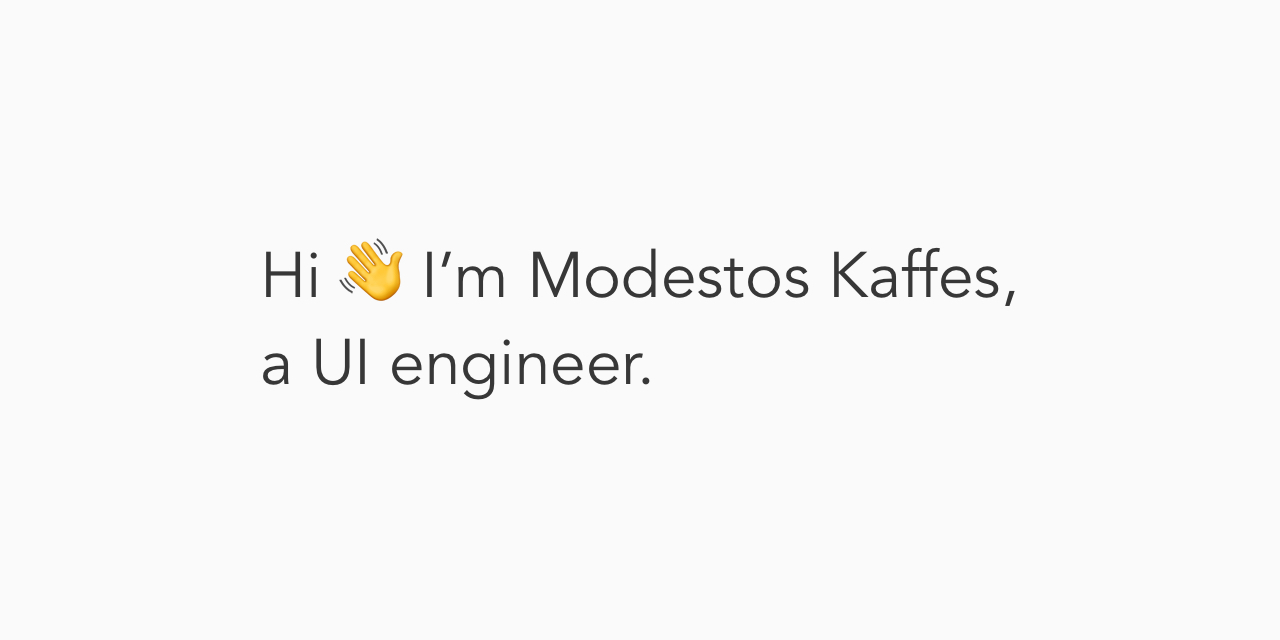
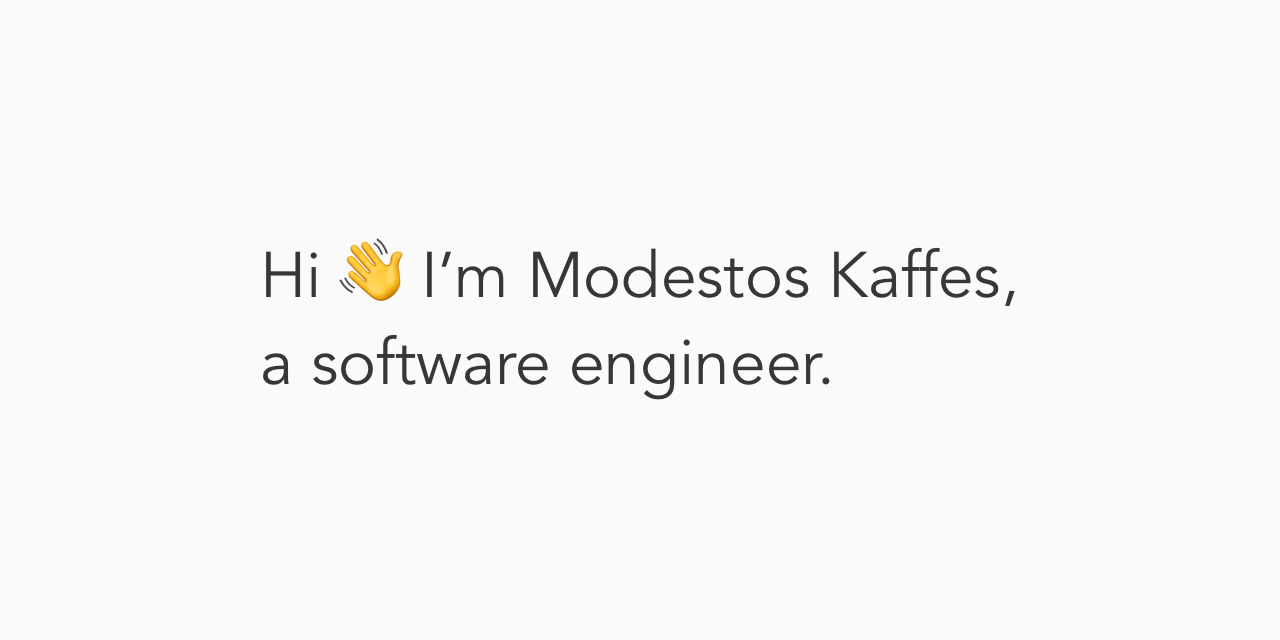
Update job title

Changed region(s): [[0.25, 0.5312, 0.6562, 0.625]]

diff --git a/index.html b/index.html
@@ -2,14 +2,14 @@
 <html lang="en-US">
   <head>
     <meta charset="utf-8" />
-    <title>Modestos Kaffes – UI Engineer</title>
-    <meta name="description" content="Hi, I’m Modestos Kaffes, a UI engineer who cares about technology, startups, music, design and photography, in no particular order." />
+    <title>Modestos Kaffes – Software Engineer</title>
+    <meta name="description" content="Hi, I’m Modestos Kaffes, a software engineer who cares about technology, startups, music, design and photography, in no particular order." />
     <meta name="viewport" content="width=device-width, initial-scale=1" />
     <meta name="theme-color" content="#008bb3" />
 
     <meta property="og:type" content="website">
-    <meta property="og:title" content="Modestos Kaffes – UI Engineer">
-    <meta property="og:description" content="Hi, I’m Modestos Kaffes, a UI engineer who cares about technology, startups, music, design and photography, in no particular order.">
+    <meta property="og:title" content="Modestos Kaffes – Software Engineer">
+    <meta property="og:description" content="Hi, I’m Modestos Kaffes, a software engineer who cares about technology, startups, music, design and photography, in no particular order.">
     <meta property="og:url" content="https://modkaffes.com/">
     <meta property="og:image" content="https://modkaffes.com/image.jpg">
     
@@ -81,8 +81,8 @@
     <div class="container">
       <main>
         <h4 class="headline">Hi 👋 I’m Modestos Kaffes,</h4>
-        <p class="tagline">a UI engineer.</p>
-        <p>I love simple design and clean code equally, constantly aiming to learn something new. Currently, I’m a UI engineer at <a href="https://workable.com"><img class="logo" src="images/workable.svg" alt="Workable logo" />Workable</a >, mostly using robust tools like <a href="https://reactjs.org/"><img class="logo" src="images/react.svg" alt="React logo" />React</a> to craft great user interfaces.</p>
+        <p class="tagline">a software engineer.</p>
+        <p>I love simple design and clean code equally, constantly aiming to learn something new. Currently, I’m a software engineer at <a href="https://workable.com"><img class="logo" src="images/workable.svg" alt="Workable logo" />Workable</a >, mostly using robust tools like <a href="https://reactjs.org/"><img class="logo" src="images/react.svg" alt="React logo" />React</a> to craft great user interfaces.</p>
         <p>Want to discuss? Talk to me on social media:</p>
         <a class="social" href="https://twitter.com/modkaffes"><img class="logo" src="images/twitter.svg" alt="Twitter logo" />Twitter</a>
         <a class="social" href="https://linkedin.com/in/modkaffes"><img class="logo" src="images/linkedin.svg" alt="LinkedIn logo" />LinkedIn</a>
